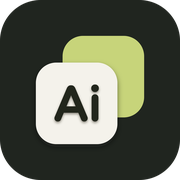
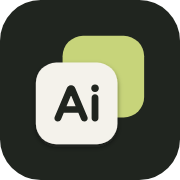
fix(site): 图标按目标尺寸直出，小尺寸去掉字阴影
- 512 / 180 不再由 2048 降采样，改为在原尺寸渲染，边缘不发虚
- 180 及以下去掉 Ai 的投影（在 180 px 里只有 1.4 px，只会糊），卡片投影同步减弱
- 新增 32 / 16 px 图标，favicon 从 SVG 换成 PNG，浏览器标签页不再模糊

diff --git a/site/pocket/index.html b/site/pocket/index.html
@@ -11,7 +11,7 @@
   <meta name="apple-mobile-web-app-status-bar-style" content="default">
   <link rel="manifest" href="./manifest.webmanifest">
   <link rel="apple-touch-icon" sizes="180x180" href="../assets/yingxu-icon-180.png">
-  <link rel="icon" href="../assets/yingxu-icon.svg" type="image/svg+xml">
+  <link rel="icon" type="image/png" sizes="32x32" href="../assets/yingxu-icon-32.png"><link rel="icon" type="image/png" sizes="16x16" href="../assets/yingxu-icon-16.png">
   <title>影序 Pocket — 手机协作台</title>
   <style>
     :root{color-scheme:light;--paper:#f4f2eb;--panel:#fbfaf5;--panel-soft:#eeede5;--ink:#20251f;--muted:#697067;--line:#d9d9ce;--green:#55784e;--green-dark:#3f633b;--lime:#c7d47a;--danger:#a64636;--sans:Manrope,"Noto Sans SC",-apple-system,BlinkMacSystemFont,"Segoe UI",sans-serif}

diff --git a/site/index.html b/site/index.html
@@ -5,7 +5,7 @@
   <meta name="viewport" content="width=device-width,initial-scale=1,viewport-fit=cover">
   <meta name="theme-color" content="#f4f2eb">
   <meta name="description" content="影序 YINGXU：为摄影与视频素材打造的本地优先备份工具。扫描、整理、复制、校验，让每份素材都有清楚去向。">
-  <link rel="icon" href="./assets/yingxu-icon.svg" type="image/svg+xml">
+  <link rel="icon" type="image/png" sizes="32x32" href="./assets/yingxu-icon-32.png"><link rel="icon" type="image/png" sizes="16x16" href="./assets/yingxu-icon-16.png">
   <link rel="stylesheet" href="./styles.css">
   <title>影序 YINGXU — 让每份素材，都有清楚去向</title>
 </head>

diff --git a/site/download/index.html b/site/download/index.html
@@ -5,7 +5,7 @@
   <meta name="viewport" content="width=device-width,initial-scale=1,viewport-fit=cover">
   <meta name="theme-color" content="#f4f2eb">
   <meta name="description" content="影序 YINGXU 正式版下载。当前公开安装包与校验文件均以 GitHub Releases 为准。">
-  <link rel="icon" href="../assets/yingxu-icon.svg" type="image/svg+xml">
+  <link rel="icon" type="image/png" sizes="32x32" href="../assets/yingxu-icon-32.png"><link rel="icon" type="image/png" sizes="16x16" href="../assets/yingxu-icon-16.png">
   <link rel="stylesheet" href="../styles.css">
   <title>下载影序 YINGXU</title>
 </head>

diff --git a/site/privacy.html b/site/privacy.html
@@ -5,7 +5,7 @@
   <meta name="viewport" content="width=device-width,initial-scale=1,viewport-fit=cover">
   <meta name="theme-color" content="#f4f2eb">
   <meta name="description" content="影序 YINGXU 网站、桌面软件与 Pocket 移动客户端的隐私说明。">
-  <link rel="icon" href="./assets/yingxu-icon.svg" type="image/svg+xml">
+  <link rel="icon" type="image/png" sizes="32x32" href="./assets/yingxu-icon-32.png"><link rel="icon" type="image/png" sizes="16x16" href="./assets/yingxu-icon-16.png">
   <link rel="stylesheet" href="./styles.css">
   <title>隐私说明 — 影序 YINGXU</title>
 </head>

diff --git a/site/update/index.html b/site/update/index.html
@@ -5,7 +5,7 @@
   <meta name="viewport" content="width=device-width,initial-scale=1,viewport-fit=cover">
   <meta name="theme-color" content="#f4f2eb">
   <meta name="description" content="影序桌面版更新、文件校验与回退说明。">
-  <link rel="icon" href="../assets/yingxu-icon.svg" type="image/svg+xml">
+  <link rel="icon" type="image/png" sizes="32x32" href="../assets/yingxu-icon-32.png"><link rel="icon" type="image/png" sizes="16x16" href="../assets/yingxu-icon-16.png">
   <link rel="stylesheet" href="../styles.css">
   <title>更新与回退 · 影序 YINGXU</title>
 </head>
